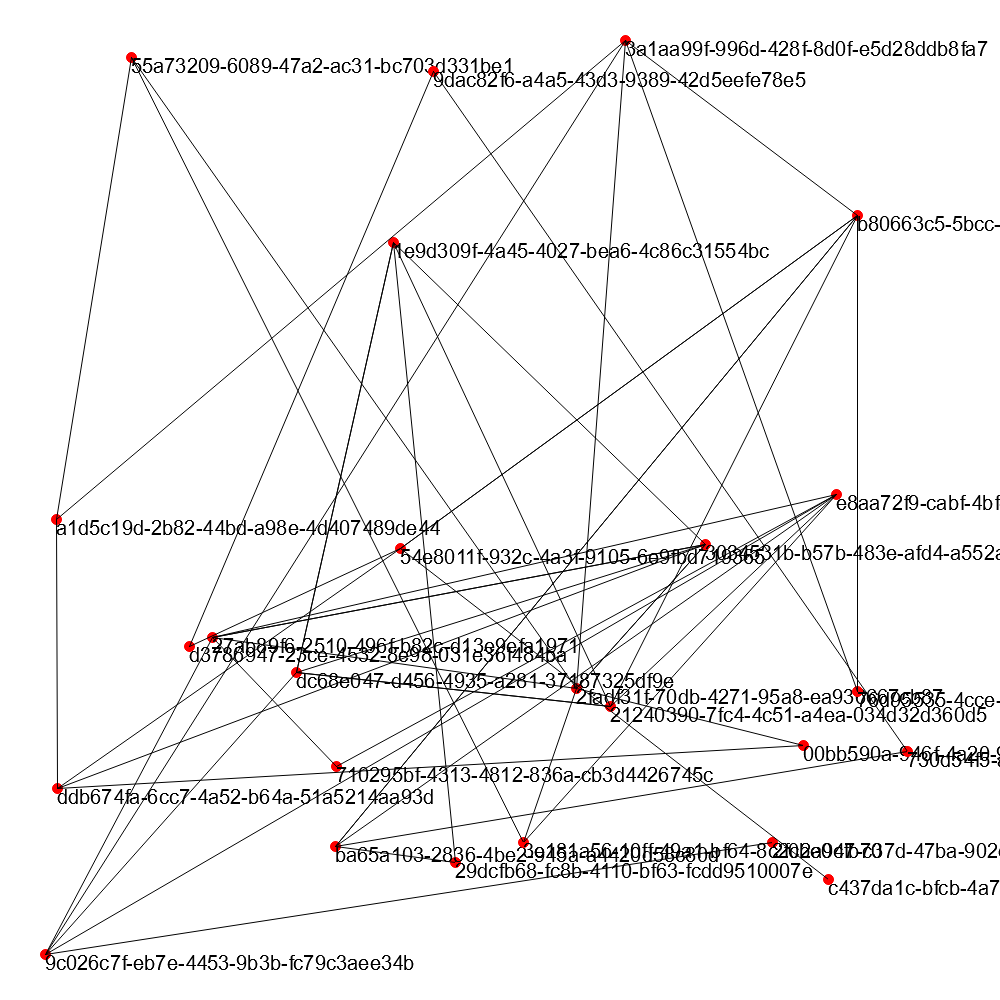
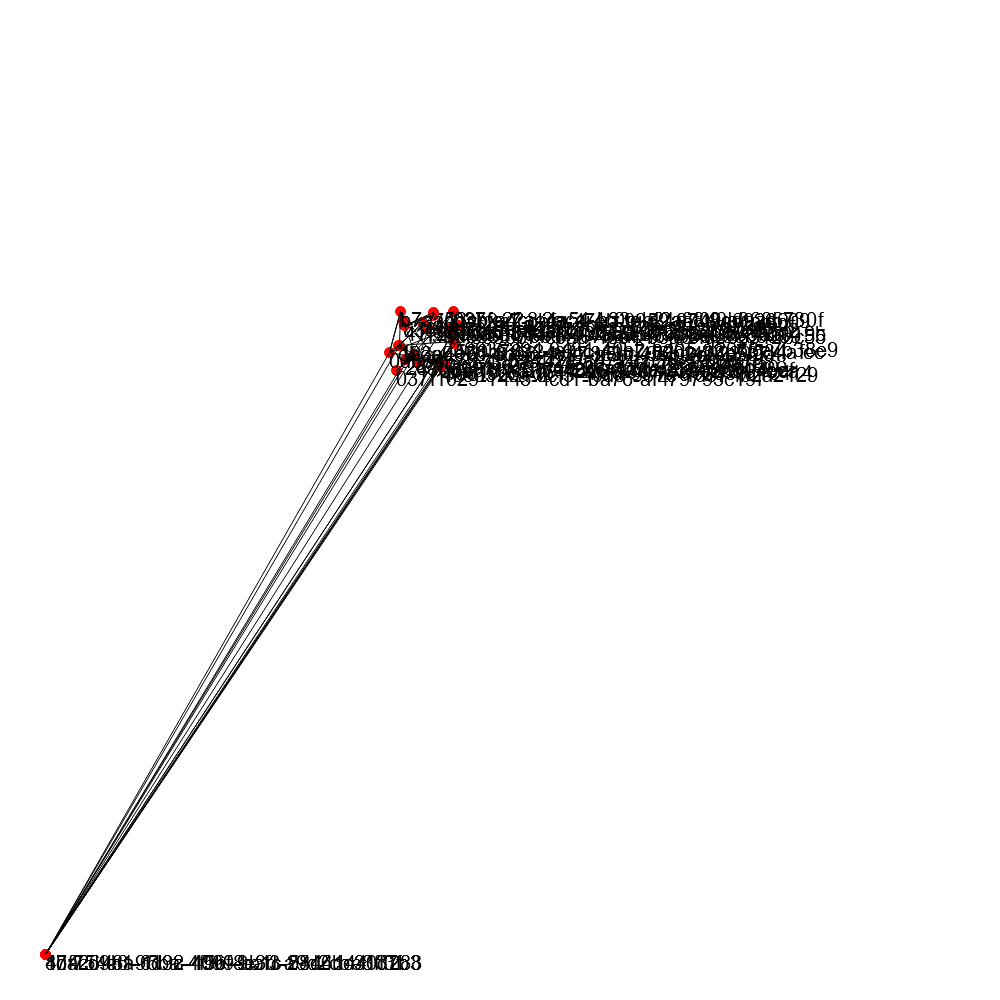
grid placement

diff --git a/graph/src/force/mod.rs b/graph/src/force/mod.rs
@@ -7,8 +7,8 @@ use rand::Rng;
 use uuid::Uuid;
 
 impl Graph {
-    const REPULSION_STRENGTH: OrderedFloat<f64> = OrderedFloat(0.1);
-    const SPRING_STIFFNESS: OrderedFloat<f64> = OrderedFloat(0.1);
+    const REPULSION_STRENGTH: OrderedFloat<f64> = OrderedFloat(0.001);
+    const SPRING_STIFFNESS: OrderedFloat<f64> = OrderedFloat(0.0005);
     const INITIAL_ALPHA: OrderedFloat<f64> = OrderedFloat(0.95);
     const ALPHA_DECREASE: OrderedFloat<f64> = OrderedFloat(0.005);
 
@@ -63,15 +63,34 @@ impl Graph {
             HashMap::new();
 
         // Initialize node positions randomly
-        for node in &self.nodes {
-            node_positions.insert(
-                node.id,
-                (
-                    rng.gen_range(OrderedFloat(-1f64)..OrderedFloat(1f64)),
-                    rng.gen_range(OrderedFloat(-1f64)..OrderedFloat(1f64)),
-                ),
-            );
+
+        // Calculate the number of rows and columns in the grid
+        let num_nodes = self.nodes.len();
+        let num_rows = OrderedFloat(num_nodes as f64).sqrt().ceil() as usize;
+        let num_columns = (num_nodes + num_rows - 1) / num_rows;
+
+        // Calculate the step size for positioning nodes
+        let step_x = OrderedFloat(2.0) / OrderedFloat(num_columns as f64);
+        let step_y = OrderedFloat(2.0) / OrderedFloat(num_rows as f64);
+
+        // Initialize node positions as a grid
+        for (index, node) in self.nodes.iter().enumerate() {
+            let row = index / num_columns;
+            let col = index % num_columns;
+
+            let x = OrderedFloat(-1.0) + (step_x * OrderedFloat(col as f64));
+            let y = OrderedFloat(1.0) - (step_y * OrderedFloat(row as f64));
+
+            node_positions.insert(node.id, (x, y));
         }
+        // Update node positions based on forces
+        for (node_id, (x, y)) in node_positions.iter() {
+            let node_index = self.node_lookup[node_id];
+            self.nodes[node_index].meta.position = (*x, *y);
+            let id = self.nodes[node_index].id;
+            println!("Node {id} got an initial position of {x}, {y}");
+        }
+        self.visualize_graph_with_path("initial.png");
 
         let mut old_pos: HashMap<Uuid, (OrderedFloat<f64>, OrderedFloat<f64>)> = HashMap::new();
 
@@ -90,7 +109,7 @@ impl Graph {
         let mut alpha = Self::INITIAL_ALPHA;
 
         while old_pos != node_positions {
-            alpha -= Self::ALPHA_DECREASE;
+            // alpha -= Self::ALPHA_DECREASE;
             iterations += 1;
             if iterations % 100000 == 0 {
                 println!("At {iterations}");
@@ -123,7 +142,7 @@ impl Graph {
             let node_index = self.node_lookup[node_id];
             self.nodes[node_index].meta.position = (*x, *y);
             let id = self.nodes[node_index].id;
-            println!("Placed {id} at {x}, {y}");
+            println!("Node {id} ended up at {x}, {y}");
         }
         println!("Ran {iterations} iterations of fdl");
     }

diff --git a/graph/src/visualize/mod.rs b/graph/src/visualize/mod.rs
@@ -1,7 +1,9 @@
 use plotters::{
+    coord::{types::RangedCoordf64, Shift},
     prelude::{
-        BitMapBackend, ChartBuilder, Circle, EmptyElement, IntoDrawingArea, LineSeries,
-        PointSeries, Text, BLACK, RED, WHITE,
+        BitMapBackend, Cartesian2d, ChartBuilder, ChartContext, Circle, CoordTranslate,
+        DrawingArea, DrawingBackend, EmptyElement, IntoDrawingArea, LineSeries, PointSeries, Text,
+        BLACK, RED, WHITE,
     },
     style::IntoFont,
 };
@@ -17,14 +19,35 @@ impl Graph {
         // Create a drawing area
         let root = BitMapBackend::new(path, (size as u32, size as u32)).into_drawing_area();
         root.fill(&WHITE)?;
-
+        self.draw_graph_on_backend(&root)?;
+        root.present()?;
+        Ok(())
+    }
+    pub fn draw_graph_on_backend<DB: DrawingBackend>(
+        &self,
+        root: &DrawingArea<DB, Shift>,
+    ) -> Result<(), Box<dyn std::error::Error>>
+    where
+        DB::ErrorType: 'static,
+    {
         // Create a chart context
-        let mut chart = ChartBuilder::on(&root)
+        let mut chart = ChartBuilder::on(root)
             .x_label_area_size(40)
             .y_label_area_size(40)
             .margin(5)
             .build_cartesian_2d(-1f64..1f64, -1f64..1f64)?;
 
+        self.draw_graph_on_chart(&mut chart)?;
+        // Export the plot as an image
+        Ok(())
+    }
+    pub fn draw_graph_on_chart<DB: DrawingBackend>(
+        &self,
+        chart: &mut ChartContext<'_, DB, Cartesian2d<RangedCoordf64, RangedCoordf64>>,
+    ) -> Result<(), Box<dyn std::error::Error>>
+    where
+        DB::ErrorType: 'static,
+    {
         // Plot nodes as scatter points
         for node in &self.nodes {
             let NodeMetaData { position: (x, y) } = node.meta;
@@ -62,7 +85,6 @@ impl Graph {
             chart.draw_series(LineSeries::new(vec![source_pos, target_pos], &BLACK))?;
         }
         // Export the plot as an image
-        root.present()?;
         Ok(())
     }
 }
